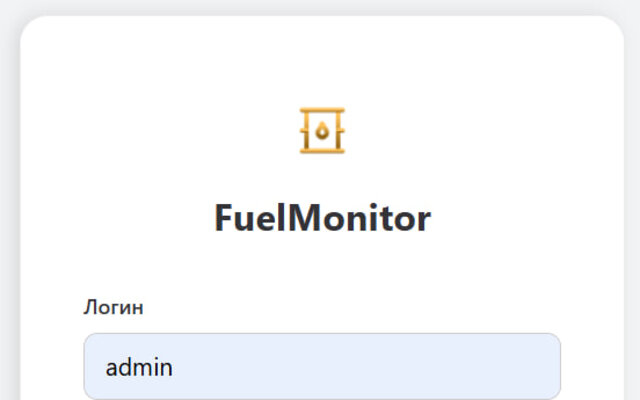
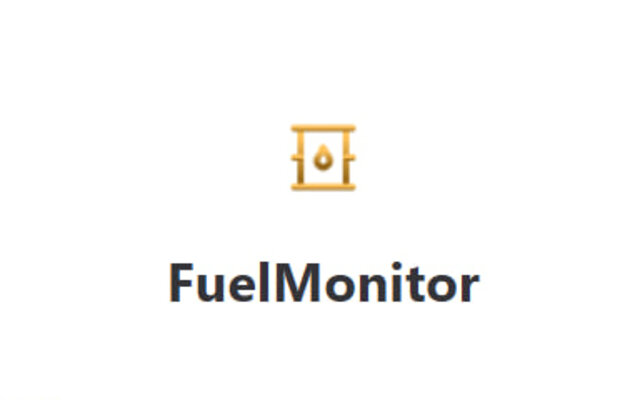
FuelMonitor обложка: логотип+название с воздухом снизу; тег → «TG mini app»

diff --git a/cases/telo-pomnit.html b/cases/telo-pomnit.html
@@ -76,7 +76,7 @@
 
     <header style="padding:8px 0 26px;">
       <span class="eyebrow">кейс</span>
-      <div class="tags"><span>приложение</span><span>Telegram Mini App</span><span>психология</span></div>
+      <div class="tags"><span>приложение</span><span>TG mini app</span><span>психология</span></div>
       <h1>«Тело помнит» — Telegram Mini App</h1>
       <div class="meta">
         <span>Роль: <b>продукт и позиционирование</b></span>

diff --git a/index.html b/index.html
@@ -695,7 +695,7 @@
         <a class="work-card" href="cases/telo-pomnit.html">
           <div class="work-thumb app-thumb"><img src="visual/cases/telo-cover.jpg" alt="Приложение «Тело помнит» — карта тела" loading="lazy"></div>
           <div class="work-body">
-            <div class="work-tags"><span>приложение</span><span>Telegram Mini App</span><span>психология</span></div>
+            <div class="work-tags"><span>приложение</span><span>TG mini app</span><span>психология</span></div>
             <div class="work-name">«Тело помнит» — Mini App</div>
             <div class="work-desc">Приложение для онлайн-программы телесной терапии: дневник тела, AI-ассистент, аналитика. Программа из Zoom-встреч стала продуктом с измеримым результатом.</div>
             <span class="work-more">смотреть кейс →</span>